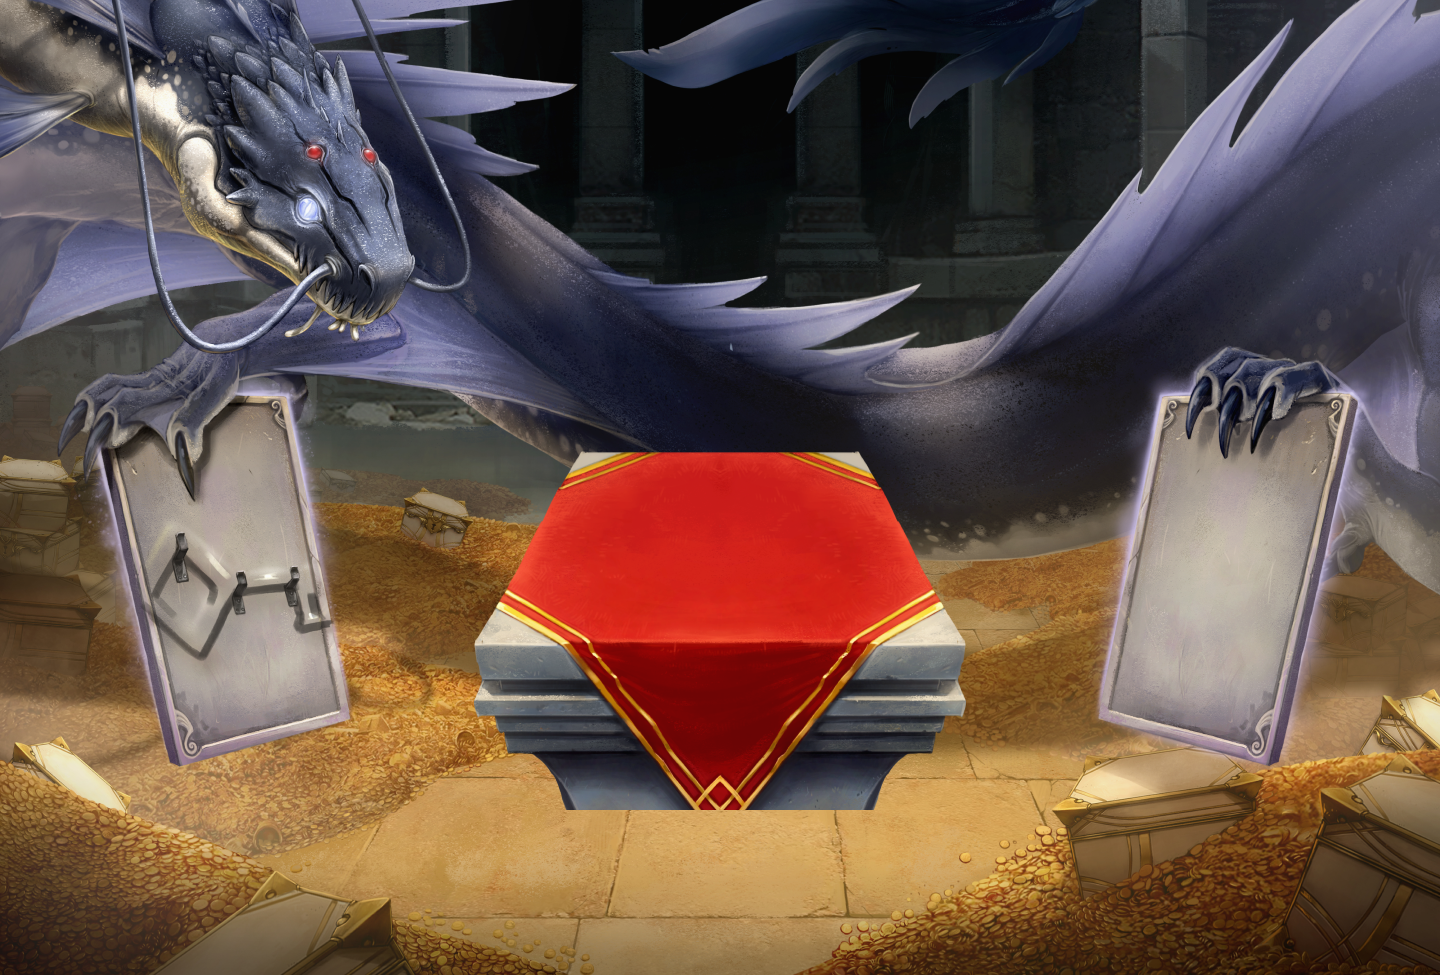
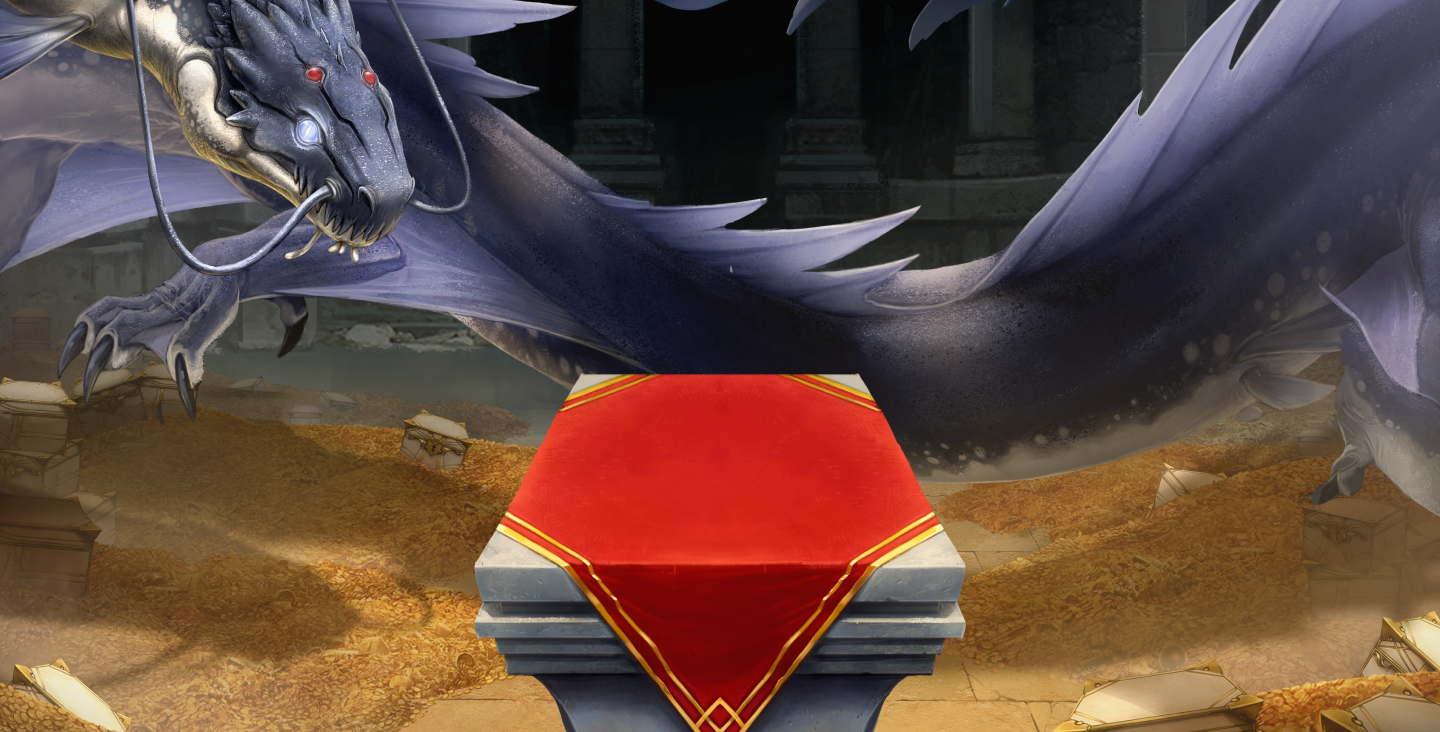
asd

diff --git a/src/Components/Dashboard/Dashboard.jsx b/src/Components/Dashboard/Dashboard.jsx
@@ -1,6 +1,7 @@
 import { faSearch } from "@fortawesome/free-solid-svg-icons";
 import { FontAwesomeIcon } from "@fortawesome/react-fontawesome";
-import { useState } from "react";
+import axios from "axios";
+import { useEffect, useState } from "react";
 import "./Dashboard.css";
 
 const LiveBox = ({ address, time, item }) => {
@@ -113,6 +114,77 @@ const Dashboard = () => {
   const [checkbox1, setCheckbox1] = useState(false);
   const [checkbox2, setCheckbox2] = useState(false);
   const [checkbox3, setCheckbox3] = useState(false);
+  const [userData, setUserData] = useState({
+    "num-of-opened-boxes": "",
+    "last-opened-box": "",
+    "num-of-won-items": "",
+    "recent-won-items": [
+      {
+        index: "",
+        title: "",
+        category: "",
+        "image-url": "",
+      },
+    ],
+  });
+  const [poolItemInfo, setPoolItemInfo] = useState({
+    Reference: "",
+    pool: "",
+    title: "",
+    onChainType: "",
+    category: "",
+    "opensea-link": "",
+    "reward-amount": "",
+    "expiration-time": "",
+    expired: "",
+    supply: "",
+    "recent-winners": "",
+  });
+  const [poolItems, setPoolItems] = useState({
+    available: [
+      {
+        index: "",
+        title: "",
+        category: "",
+        "image-url": "",
+      },
+    ],
+    expired: [],
+  });
+  const [sig, setSig] = useState(false);
+  useEffect(() => {
+    //getting user data
+    axios
+      .get("/getUserMBdata")
+      .then((res) => {
+        setUserData(res.data);
+      })
+      .catch((err) => console.log(err));
+
+    //getting pool items
+    axios
+      .get("/getPoolItems")
+      .then((res) => {
+        setPoolItems(res.data);
+      })
+      .catch((err) => console.log(err));
+
+    //getting pool items info
+    axios
+      .get("/getItemInfo")
+      .then((res) => {
+        setPoolItems(res.data);
+      })
+      .catch((err) => console.log(err));
+
+    //getting box signature
+    axios
+      .get("/getBoxSig")
+      .then((res) => {
+        setSig(res.data);
+      })
+      .catch((err) => console.log(err));
+  }, []);
   return (
     <div className="container height">
       <div className="dashboard">

diff --git a/src/App.jsx b/src/App.jsx
@@ -1,3 +1,5 @@
+import axios from "axios";
+import { useEffect, useState } from "react";
 import "./App.css";
 import Dashboard from "./Components/Dashboard/Dashboard";
 import Hero from "./Components/Hero/Hero";
@@ -6,6 +8,18 @@ import Footer from "./Layout/Footer/Footer";
 import Header from "./Layout/Header/Header";
 
 const App = () => {
+  const [poolInfo, setPoolInfo] = useState(false);
+
+  useEffect(() => {
+    //getting pool info
+    axios
+      .get("/getPoolInfo")
+      .then((res) => {
+        setPoolInfo(res.data);
+      })
+      .catch((err) => console.log(err));
+  }, []);
+
   return (
     <div>
       <Header />

diff --git a/src/Components/Hero/Hero.css b/src/Components/Hero/Hero.css
@@ -53,12 +53,36 @@
     left: 10%;
   }
 }
-.chest {
+.chest,
+.chest-hover {
   position: absolute;
-  top: 47%;
+  top: 56%;
   cursor: pointer;
   left: 50%;
+  width: 400px;
+  object-fit: contain;
   transform: translate(-50%, -50%);
+  z-index: 40;
+}
+@media screen and (min-width: 1800px) {
+  .chest,
+  .chest-hover {
+    width: 500px;
+  }
+}
+@media screen and (min-width: 2200px) {
+  .chest,
+  .chest-hover {
+    width: 600px;
+  }
+}
+.chest-hover {
+  z-index: 42;
+  opacity: 0;
+  transition: all 0.6s ease-in-out;
+}
+.chest-hover:hover {
+  opacity: 1;
 }
 .scroll-bottom {
   background-color: black;

diff --git a/src/Components/Hero/Hero.jsx b/src/Components/Hero/Hero.jsx
@@ -20,11 +20,12 @@ const Hero = () => {
           className="key"
         />
         <Link to="prizes" offset={-80} className="scroll-bottom"></Link>
+        <img src="/chest.png" alt="" className="chest" />
         <img
           onClick={() => setBuyModal(true)}
-          src="/chest.png"
+          src="/chest-hover.png"
           alt=""
-          className="chest"
+          className="chest-hover"
         />
         <div className="btn-div">
           <img src="/gold-frame.png" alt="" className="frame" />
